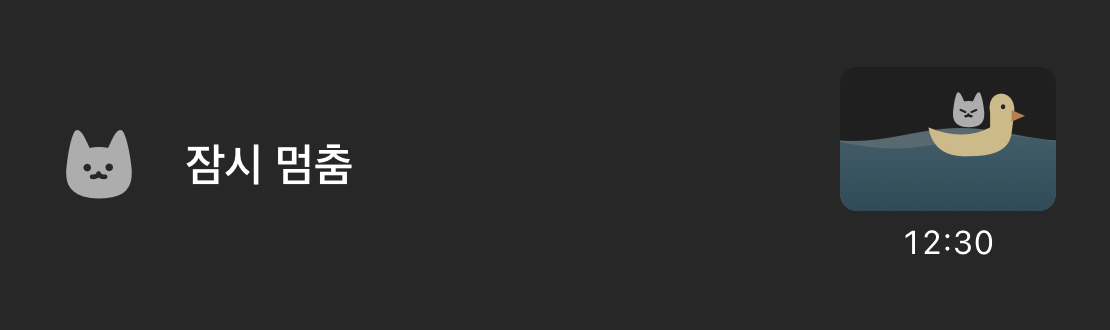
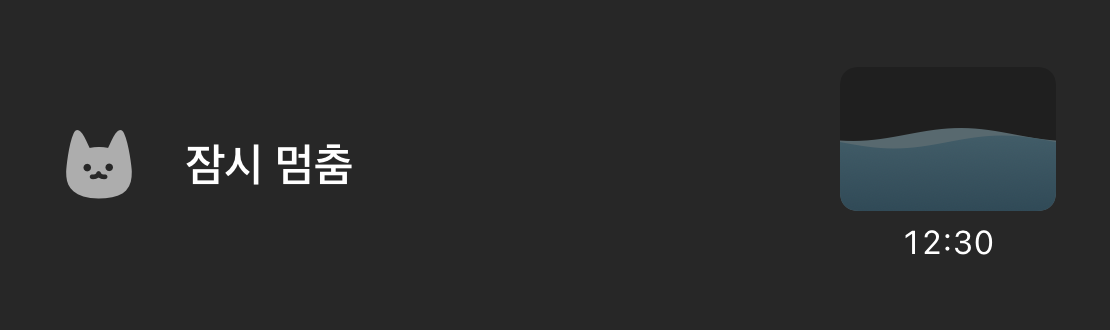
fix(mobile): remove duck boat from water widget artwork

Changed region(s): [[0.827, 0.2727, 0.9189, 0.4848]]

diff --git a/apps/mobile/native-sources/NeowFocusWidgets/FocusArt.swift b/apps/mobile/native-sources/NeowFocusWidgets/FocusArt.swift
@@ -239,41 +239,11 @@ private struct FocusWaterSurface: Shape {
 private struct FocusWaterArtwork: View {
   var progress: Double
   var body: some View {
-    GeometryReader { geometry in
-      let value = FocusStyleGeometry.clamped(progress)
-      let level = geometry.size.height * (1 - value)
-      ZStack(alignment: .topLeading) {
-        Color(white: 0.12)
-        FocusWaterSurface(progress: value, rear: true).fill(Color(red: 0.53, green: 0.65, blue: 0.69).opacity(0.55))
-        FocusWaterSurface(progress: value).fill(LinearGradient(colors: [Color(red: 0.32, green: 0.43, blue: 0.47), Color(red: 0.19, green: 0.29, blue: 0.34)], startPoint: .top, endPoint: .bottom))
-        if geometry.size.height >= 30 {
-          FocusDuckBoat().frame(width: 34, height: 23)
-            .position(x: geometry.size.width * 0.62, y: min(geometry.size.height - 12, max(12, level - 5)))
-        }
-      }
-    }
-  }
-}
-
-private struct FocusDuckBoat: View {
-  var body: some View {
-    GeometryReader { geometry in
-      ZStack(alignment: .topLeading) {
-        Path { p in
-          p.move(to: CGPoint(x: 2, y: 13))
-          p.addQuadCurve(to: CGPoint(x: 25, y: 13), control: CGPoint(x: 15, y: 18))
-          p.addLine(to: CGPoint(x: 25, y: 8))
-          p.addCurve(to: CGPoint(x: 34, y: 8), control1: CGPoint(x: 23, y: -1), control2: CGPoint(x: 35, y: -1))
-          p.addLine(to: CGPoint(x: 33, y: 15))
-          p.addQuadCurve(to: CGPoint(x: 18, y: 23), control: CGPoint(x: 32, y: 23))
-          p.addQuadCurve(to: CGPoint(x: 2, y: 13), control: CGPoint(x: 4, y: 24))
-          p.closeSubpath()
-        }.fill(Color(red: 0.80, green: 0.73, blue: 0.54))
-        Path { p in p.move(to: CGPoint(x: 33, y: 7)); p.addLine(to: CGPoint(x: 38, y: 9)); p.addLine(to: CGPoint(x: 33, y: 11)); p.closeSubpath() }
-          .fill(Color(red: 0.72, green: 0.50, blue: 0.32))
-        Circle().fill(Color(white: 0.15)).frame(width: 1.6, height: 1.6).offset(x: 29, y: 5)
-        FocusCat(focused: true).frame(width: 16, height: 16).offset(x: 9, y: -1)
-      }.scaleEffect(x: geometry.size.width / 38, y: geometry.size.height / 24, anchor: .topLeading)
+    let value = FocusStyleGeometry.clamped(progress)
+    ZStack(alignment: .topLeading) {
+      Color(white: 0.12)
+      FocusWaterSurface(progress: value, rear: true).fill(Color(red: 0.53, green: 0.65, blue: 0.69).opacity(0.55))
+      FocusWaterSurface(progress: value).fill(LinearGradient(colors: [Color(red: 0.32, green: 0.43, blue: 0.47), Color(red: 0.19, green: 0.29, blue: 0.34)], startPoint: .top, endPoint: .bottom))
     }
   }
 }

diff --git a/docs/implementation/widget-style-evidence/README.md b/docs/implementation/widget-style-evidence/README.md
@@ -1,13 +1,13 @@
 # Timer styles in widgets and Live Activities
 
-Local candidate: **NeowFocus iOS 0.1.1 (15)**. The currently delivered TestFlight build remains **0.1.1 (14)**. No upload or public submission was performed for this candidate.
+Local candidate: **NeowFocus iOS 0.1.1 (15)**. The currently delivered TestFlight build remains **0.1.1 (14)**. No upload or public submission was performed for this candidate. The duck-boat removal was subsequently compiled and rendered offscreen; the earlier signed app build predates that visual-only follow-up.
 
 ## Behavior
 
 - The existing `timerStyle` and `showRemainingTime` settings now travel through the native snapshot to the home widget, Lock Screen Live Activity and Dynamic Island.
-- Classic retains its existing ring. Blocks use a compact 12×8 exact-cover board derived from the incumbent mobile tile. Water uses two blue-gray surfaces and the existing cat in a small duck boat.
+- Classic retains its existing ring. Blocks use a compact 12×8 exact-cover board derived from the incumbent mobile tile. Water uses two blue-gray surfaces; the duck boat and its passenger have been removed.
 - Default/unknown/old snapshots resolve to classic. Optional native fields preserve old Codable payloads. Completion pins the last active style. Idle previews follow preference changes. Pause/resume and queued native commands retain appearance preferences.
-- New blocks transition in for 0.32s; water/boat positions transition for 0.45s. Both disable movement for Reduce Motion and reduced-luminance Always-On. No repeatForever, custom timer-font hack, frame loop or new background execution mode is used.
+- New blocks transition in for 0.32s; water levels transition for 0.45s. Both disable movement for Reduce Motion and reduced-luminance Always-On. No repeatForever, custom timer-font hack, frame loop or new background execution mode is used.
 - Artwork is a **snapshot**, not an autonomous background animation. Home-widget timeline delivery is owned by iOS; the existing minute entries are requests, not a guaranteed refresh rate. While foreground/running, themed artwork is republished at most once per wall-clock minute and on lifecycle/state/preference changes. Completed/paused sessions do not receive periodic artwork updates.
 - A suspended app cannot guarantee custom Live Activity artwork updates. The last artwork snapshot can remain visible while Apple's native `ProgressView(timerInterval:)` and optional timer text continue to advance. Pause/resume, foreground reconciliation or other valid state updates catch the artwork up. No server/push animation service was introduced.
 - Existing task-visibility privacy, widget controls, day count, app links and app-side timer scene remain in place. Publication reads current settings after native command replay, avoiding stale queued preference values.
